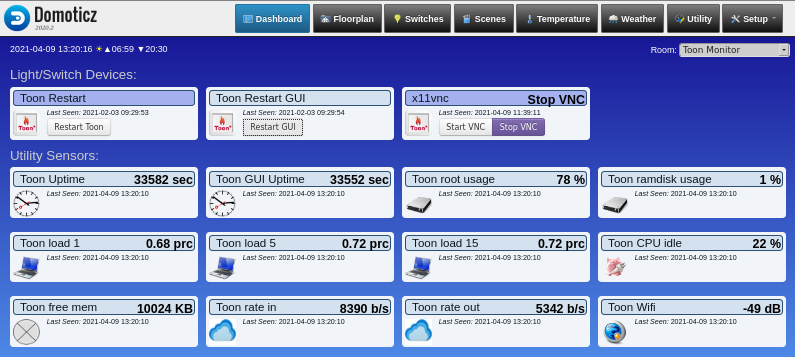
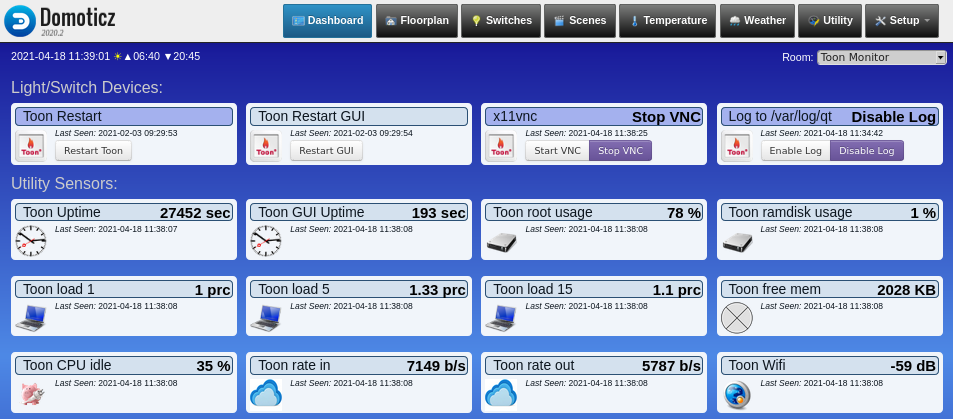
Add Toon 2 vnc support and Log Enable/Disable button

diff --git a/README.md b/README.md
@@ -1,10 +1,11 @@
 This plugin was developed on Raspberry Pi Buster and may work on other platforms.
 
-The plugin creates 3 buttons to :
+The plugin creates 4 buttons to :
 
  - Restart Toon
  - Restart Toon GUI
- - Start/Stop vnc ( Toon 1 only since Toon 2 does not support vnc )
+ - Start/Stop vnc ( Toon 1 full and Toon 2 view-only support )
+ - Enable/Disable debug logging to /var/log/qt
  
  and 12 sensors for 
 
@@ -29,13 +30,13 @@ The plugin also creates a room with the name you enter for your hardware item.
 
 Updates are done every minute.
 
-To install the plugin you need to get the contents of the zip file ToonMonitor.zip
+To install or update the plugin you need to get the contents of the zip file ToonMonitor.zip
 
 On a Raspberry Pi you could :
 
-Start a terminal and go to your plugins folder and the next command will download a zip file, unpack and remove the zipfile : 
+Start a terminal and go to your plugins folder and the next wget command will download a zip file, unpack and remove the zipfile : 
 
-    wget https://raw.githubusercontent.com/JackV2020/Domoticz-ToonMonitor/main/ToonMonitor.zip && unzip ToonMonitor.zip && rm ToonMonitor.zip
+ ....../plugins$ wget https://raw.githubusercontent.com/JackV2020/Domoticz-ToonMonitor/main/ToonMonitor.zip -O ToonMonitor.zip && unzip -o ToonMonitor.zip && rm ToonMonitor.zip
 
 After this you need to enable access to Toon and put a reporting script in place.
 
@@ -62,7 +63,7 @@ However, you may want more......
 
 In ToonMonitor.conf you find how to add/remove/change sensors.
 
-In Installing.txt you find also how to install VNC on Toon 1 and SFTP on Toon 2 if you want that.
+In Installing.txt you find also how to install VNC on Toon 1/Toon 2 and SFTP on Toon 2 if you want that.
 VNC Clients known to work are TigerVNC Viewer on Windows and Linux and bVNC Free on Android.
 Other working VNC clients may be available but not all work with Toon 1.
 
